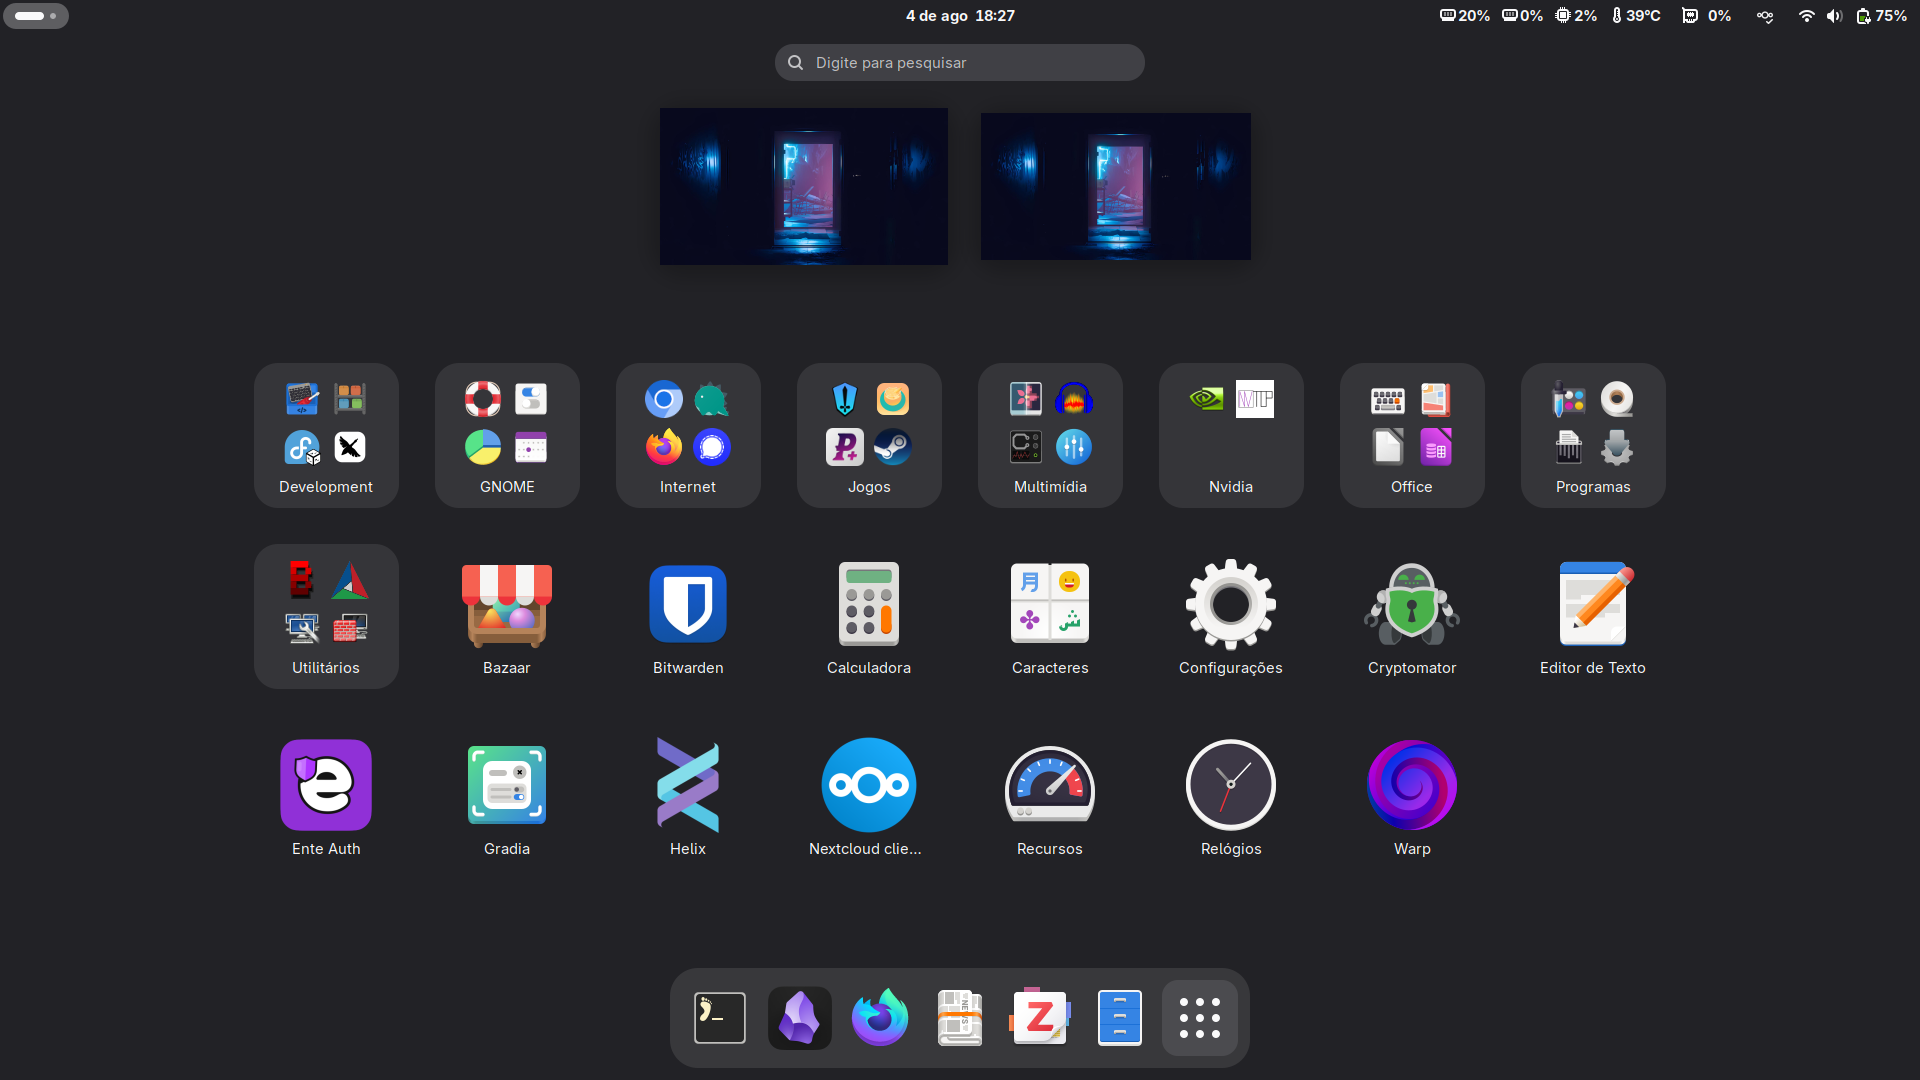
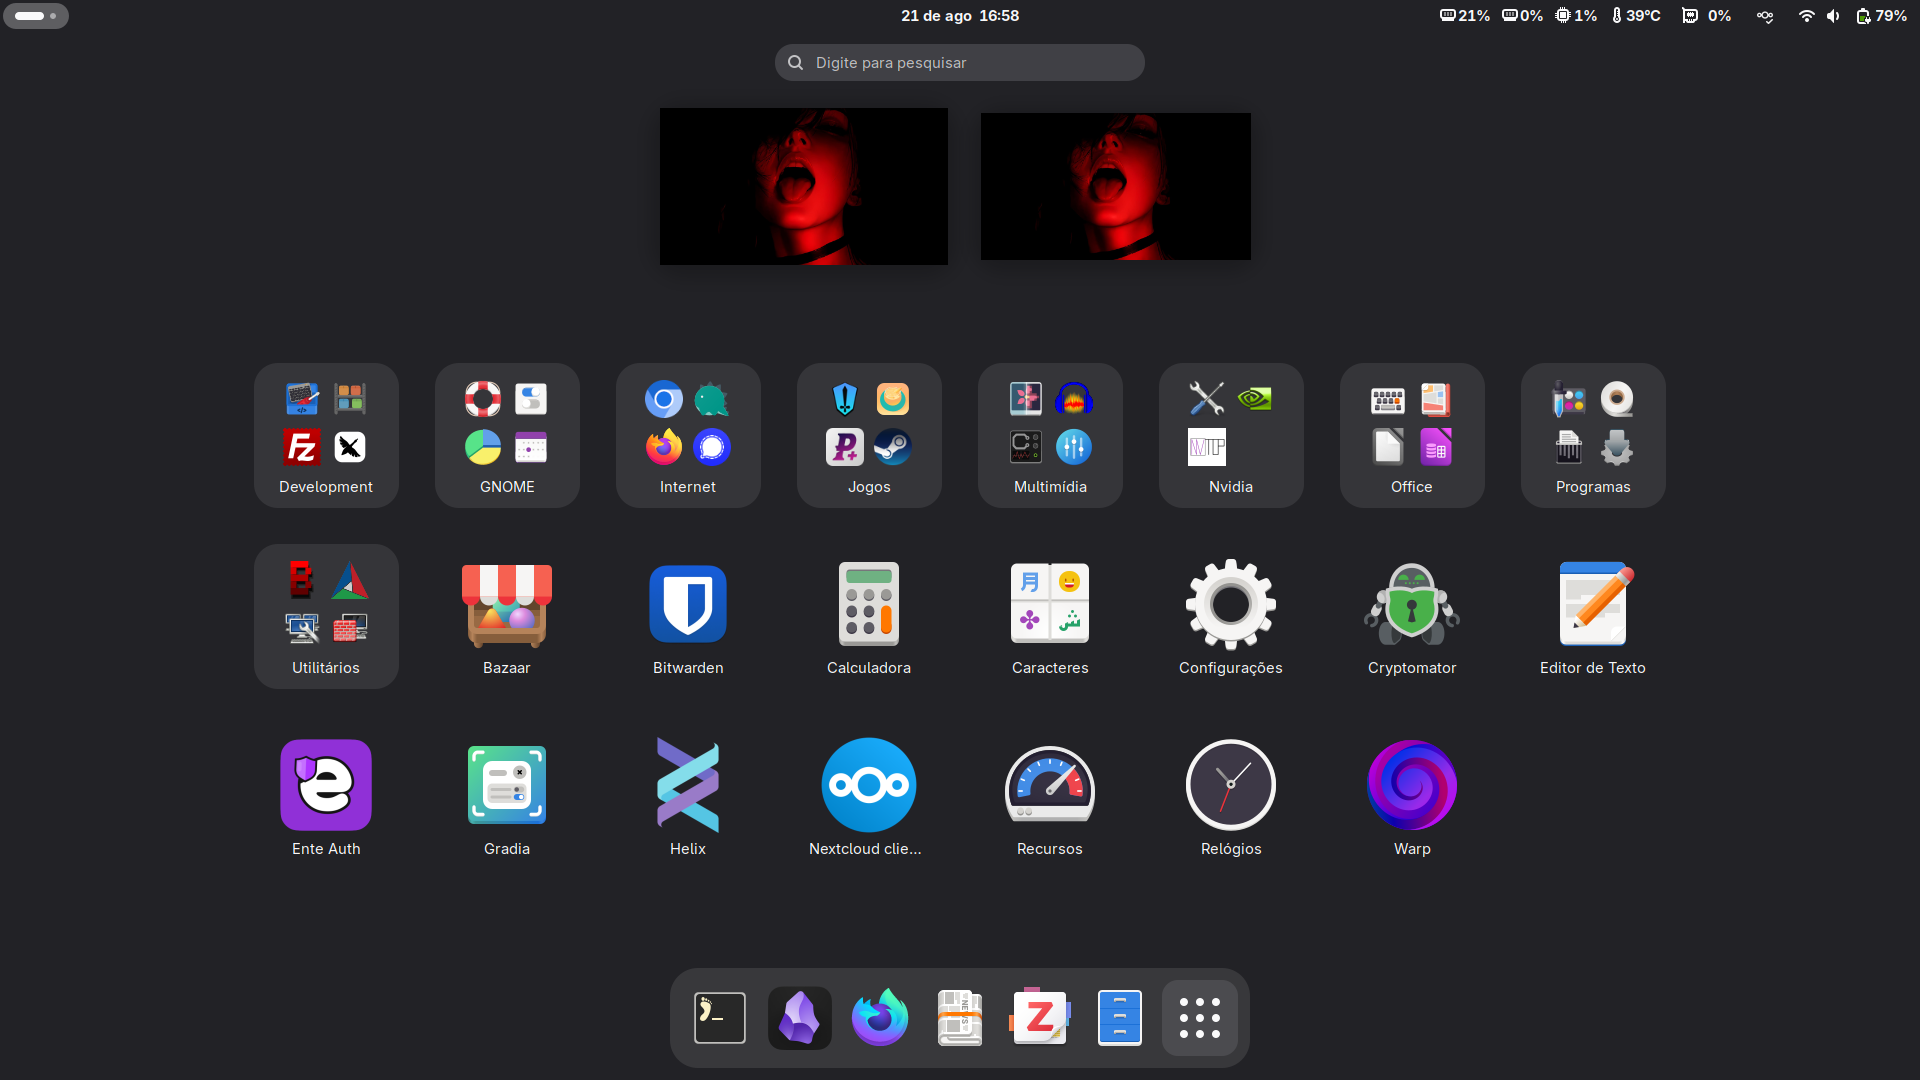
substitui os screenshots do README

diff --git a/README.md b/README.md
@@ -32,10 +32,10 @@ oh-my-posh, Foot terminal (server mode), Zellij, AUR helper Yay, Flatpak,
 Podman, Distrobox, Apparmor, firewalld, systemd-resolved, NetworkManager
 (default backend), wireless-regdb (WIRELESS_REGDOM="BR"), qemu, Incus, mise,
 intel_pstate scaling driver, thermald, intel-lpmd, tuned e tuned-ppd para
-gerenciamento de frequências da CPU e do perfil de energia, ananicy-cpp,
-firmware para o áudio da Sound Open Firmware, Helix Editor, Ollama (CUDA), GNOME
-(Wayland). As configurações executadas pelos scripts deste repositório são
-concebidas nessa base.
+gerenciamento de frequências da CPU e do perfil de energia, cardwire,
+ananicy-cpp, firmware para o áudio da Sound Open Firmware, Helix Editor, Ollama
+(CUDA), GNOME (Wayland). As configurações executadas pelos scripts deste
+repositório são concebidas nessa base.
 
 Os scripts deverão ser executados após a inicialização do sistema no ambiente
 gráfico.
